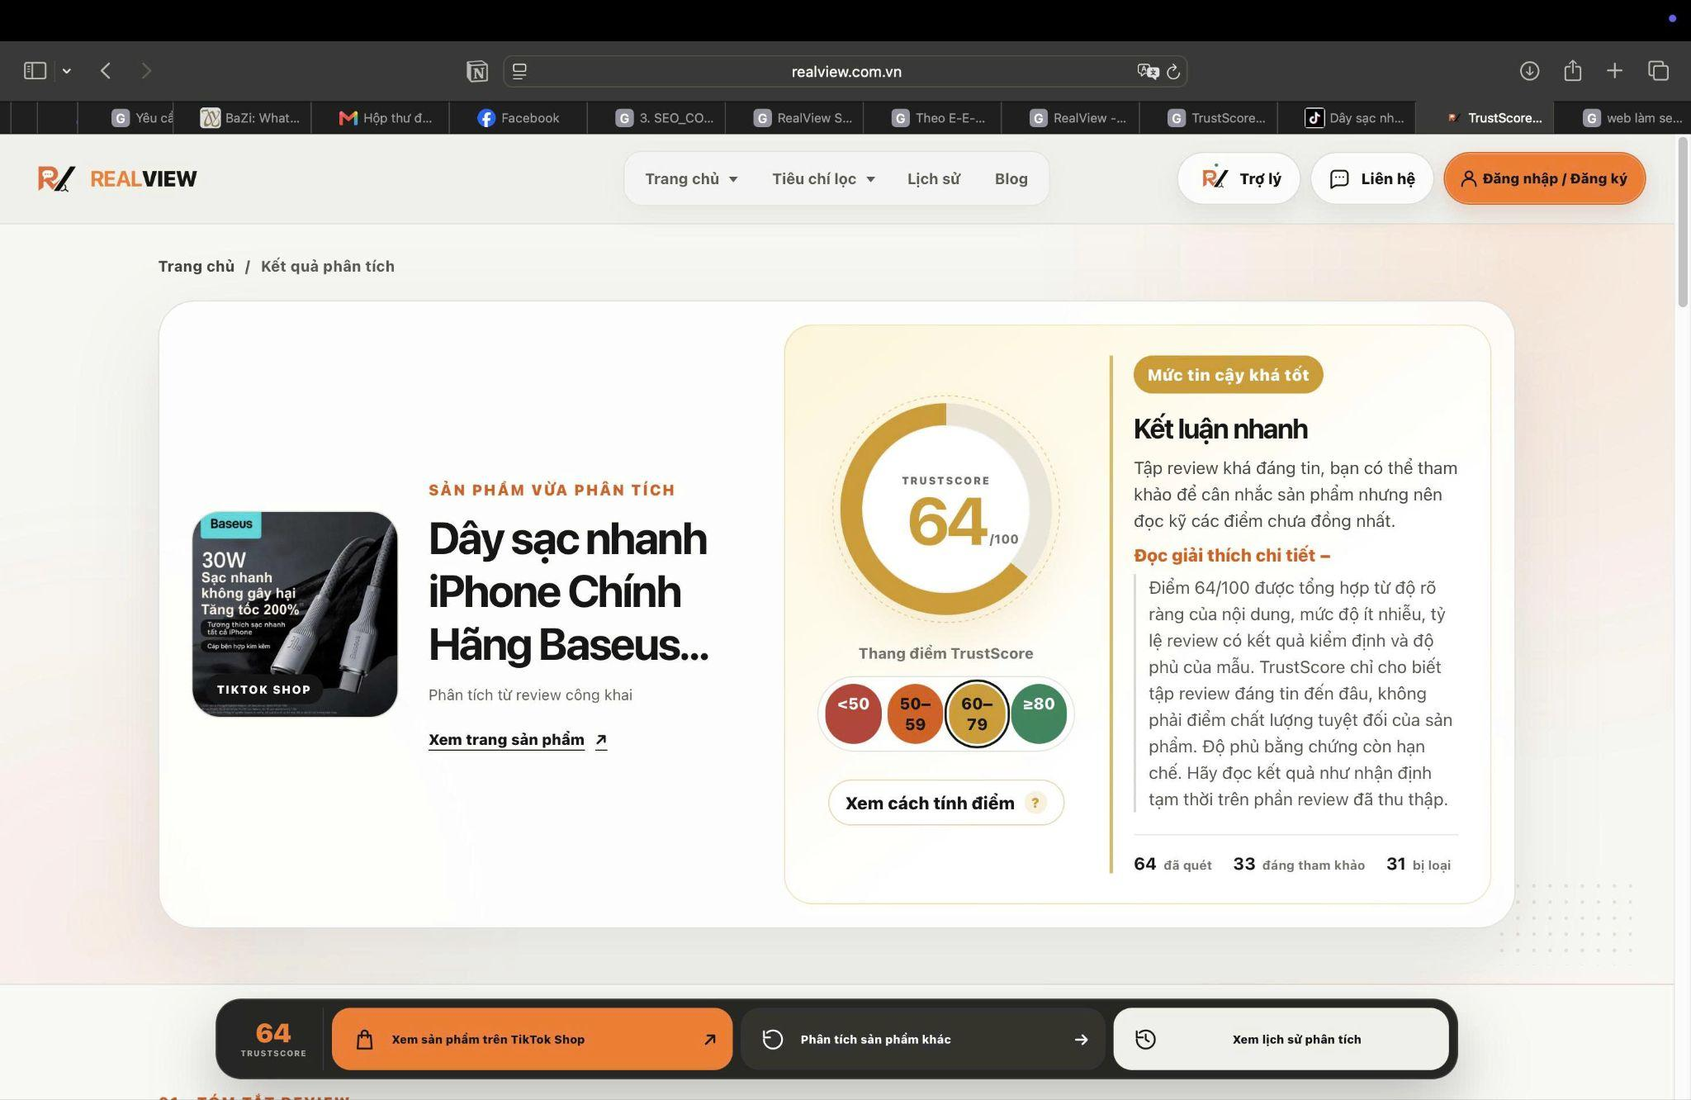
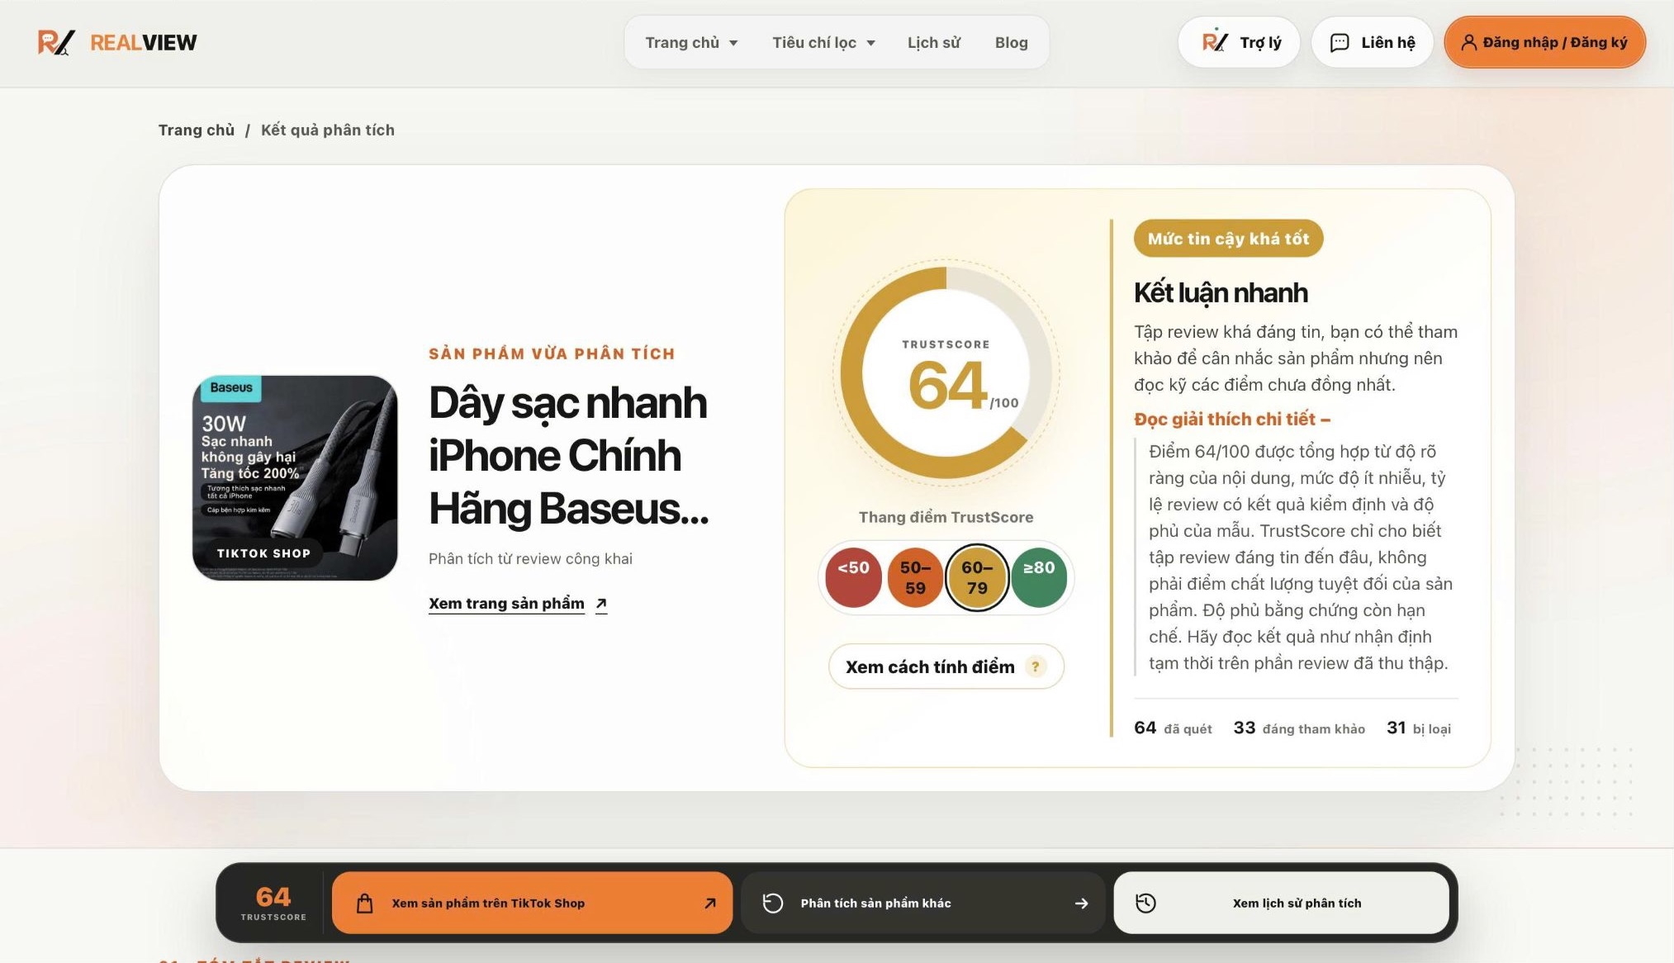
Refine Blog layout and update article imagery

diff --git a/public/blog.css b/public/blog.css
@@ -30,20 +30,21 @@
 .note-three { left: 4%; bottom: 16%; }
 
 .blog-library { padding: 58px 0 90px; }
-.library-heading { display: grid; grid-template-columns: 1fr minmax(280px, 480px); align-items: end; gap: 48px; }
+.library-heading { display: block; }
 .library-heading h2 { margin: 0; font-size: clamp(34px, 4vw, 54px); line-height: 1; letter-spacing: -.045em; }
-.library-heading > p { margin: 0; color: #5d5d58; font-size: 15px; line-height: 1.7; }
-.blog-tools { margin: 30px 0 26px; display: flex; justify-content: space-between; gap: 20px; }
+.blog-tools { margin: 30px 0 26px; display: grid; grid-template-columns: minmax(0, 1fr) 310px; align-items: center; column-gap: 72px; }
 .blog-filters { display: flex; flex-wrap: wrap; gap: 8px; }
-.blog-filters button { min-height: 42px; padding: 0 17px; border: 1px solid rgba(22,22,22,.08); border-radius: 999px; background: white; color: #51514c; font: inherit; font-size: 13px; font-weight: 750; cursor: pointer; transition: background .2s, color .2s, transform .2s; }
+.blog-filters button { min-height: 44px; padding: 0 17px; border: 1px solid rgba(22,22,22,.08); border-radius: 999px; background: white; color: #51514c; font: inherit; font-size: 13px; font-weight: 750; cursor: pointer; transition: background .2s, color .2s, transform .2s; }
 .blog-filters button:hover { transform: translateY(-1px); border-color: rgba(252,120,31,.4); color: var(--ink); }
 .blog-filters button.is-active { border-color: var(--orange); background: var(--orange); color: var(--ink); box-shadow: 0 9px 22px rgba(223,89,0,.16); }
-.blog-search { width: min(310px, 100%); min-height: 44px; padding: 0 16px; display: flex; align-items: center; gap: 10px; border: 1px solid rgba(22,22,22,.09); border-radius: 999px; background: white; }
+.blog-search { width: 100%; height: 48px; padding: 0 16px; display: flex; align-items: center; gap: 10px; box-sizing: border-box; border: 1px solid #d1d5db; border-radius: 999px; background-color: #fff; box-shadow: 0 1px 2px rgba(0,0,0,.05); }
 .blog-search:focus-within { border-color: var(--orange); box-shadow: 0 0 0 3px rgba(252,120,31,.12); }
-.blog-search svg { width: 19px; stroke: currentColor; stroke-width: 2; }
-.blog-search input { width: 100%; border: 0; outline: 0; background: transparent; color: var(--ink); font: inherit; font-size: 14px; }
-.blog-layout { display: grid; grid-template-columns: minmax(0, 1fr) 310px; align-items: start; gap: 26px; }
+.blog-search svg { flex: 0 0 auto; width: 21px; height: 21px; stroke: currentColor; stroke-width: 2; }
+.blog-search input { min-width: 0; width: 100%; border: 0; outline: 0; background: transparent; color: var(--ink); font: inherit; font-size: 15px; }
+.blog-search input::placeholder { font-size: 15px; }
+.blog-layout { display: grid; grid-template-columns: minmax(0, 1fr) 310px; align-items: start; column-gap: 72px; }
 .blog-feed { min-width: 0; }
+.blog-list-item { min-width: 0; margin-bottom: 32px; padding-bottom: 32px; border-bottom: 1px solid #e5e5e5; }
 .featured-post { min-height: 330px; display: grid; grid-template-columns: 42% 1fr; overflow: hidden; border: 1px solid rgba(22,22,22,.1); border-radius: 26px; background: white; box-shadow: 0 14px 38px rgba(22,22,22,.05); }
 .featured-post-image { min-height: 100%; display: block; overflow: hidden; background: #f7f7f3; }
 .featured-post-image img { width: 100%; height: 100%; display: block; object-fit: contain; object-position: center; }
@@ -51,12 +52,12 @@
 .featured-post-copy { padding: 34px; display: flex; flex-direction: column; align-items: flex-start; justify-content: center; }
 .post-meta { display: flex; flex-wrap: wrap; align-items: center; gap: 9px 14px; color: #787872; font-size: 12px; font-weight: 650; }
 .post-meta span:first-child { padding: 7px 10px; border-radius: 999px; background: #fff0e5; color: var(--orange-dark); font-weight: 850; letter-spacing: .03em; text-transform: uppercase; }
-.featured-post h3 { margin: 18px 0 12px; font-size: clamp(25px, 3vw, 34px); line-height: 1.13; letter-spacing: -.035em; }
+.featured-post h3 { margin: 18px 0 12px; font-size: 24px; line-height: 1.25; letter-spacing: -.03em; }
 .featured-post h3 a { text-decoration: none; }
 .featured-post h3 a:hover { color: var(--orange-dark); }
 .featured-post-copy > p { margin: 0; color: #5b5b56; font-size: 15px; line-height: 1.65; }
 .read-more { margin-top: 22px; color: var(--orange-dark); font-size: 14px; font-weight: 850; text-underline-offset: 4px; }
-.post-grid { margin-top: 20px; display: grid; grid-template-columns: repeat(2, minmax(0, 1fr)); gap: 20px; }
+.post-grid { display: grid; grid-template-columns: repeat(2, minmax(0, 1fr)); gap: 20px; }
 .post-card { overflow: hidden; border: 1px solid rgba(22,22,22,.1); border-radius: 23px; background: white; transition: transform .22s, box-shadow .22s; }
 .post-card:hover { transform: translateY(-3px); box-shadow: 0 18px 45px rgba(22,22,22,.08); }
 .post-card > img, .post-card > a, .post-card > a img, .post-card-graphic { width: 100%; height: 210px; display: block; object-fit: contain; object-position: center; }
@@ -65,7 +66,7 @@
 .post-card h3 a { color: inherit; text-decoration: none; }
 .post-card h3 a:hover { color: var(--orange-dark); }
 .post-card-body { padding: 23px 24px 25px; }
-.post-card h3 { min-height: 54px; margin: 15px 0 10px; font-size: 20px; line-height: 1.3; letter-spacing: -.025em; }
+.post-card h3 { min-height: 60px; margin: 15px 0 10px; font-size: 24px; line-height: 1.25; letter-spacing: -.025em; }
 .post-card-body > p { min-height: 72px; margin: 0; color: #5e5e59; font-size: 14px; line-height: 1.65; }
 .post-status { margin-top: 18px; display: inline-block; color: #85857f; font-size: 12px; font-weight: 700; }
 .post-card-graphic { display: flex; align-items: center; justify-content: center; background: #191918; color: white; }
@@ -88,6 +89,7 @@
 .sidebar-card nav button { min-height: 42px; padding: 0 12px 0 14px; display: flex; align-items: center; justify-content: space-between; border: 0; border-radius: 11px; background: #f4f4f1; color: #484844; font: inherit; font-size: 13px; cursor: pointer; }
 .sidebar-card nav button:hover { background: #fff0e5; color: var(--orange-dark); }
 .sidebar-card nav b { min-width: 27px; height: 27px; display: grid; place-items: center; border-radius: 50%; background: white; font-size: 11px; }
+.start-card { border: 0; border-radius: 16px; background-color: #fff; box-shadow: 0 4px 20px rgba(0,0,0,.05); }
 .start-card ol { margin: 0; padding: 0; display: grid; gap: 12px; counter-reset: starts; list-style: none; }
 .start-card li { display: grid; grid-template-columns: 28px 1fr; align-items: start; gap: 10px; color: #565651; font-size: 13px; line-height: 1.5; counter-increment: starts; }
 .start-card li::before { content: counter(starts); width: 28px; height: 28px; display: grid; place-items: center; border-radius: 50%; background: #fff0e5; color: var(--orange-dark); font-weight: 850; }
@@ -99,11 +101,14 @@
 .cta-icon { width: 46px; height: 46px; margin-bottom: 18px; display: grid; place-items: center; border-radius: 14px; background: var(--orange); color: var(--ink); font-size: 12px; font-weight: 950; }
 
 .blog-editorial { padding: 0 0 90px; }
-.blog-editorial-shell { padding: 36px; display: grid; grid-template-columns: minmax(220px, .7fr) minmax(0, 1.3fr); gap: 42px; border: 1px solid rgba(22,22,22,.1); border-radius: 28px; background: white; }
+.blog-editorial-shell { padding: 36px; display: grid; grid-template-columns: max-content repeat(3, minmax(0, 1fr)); align-items: center; gap: 40px; border: 1px solid rgba(22,22,22,.1); border-radius: 28px; background: white; }
 .blog-editorial h2 { max-width: 420px; margin: 0; font-size: clamp(28px, 3vw, 42px); line-height: 1.08; letter-spacing: -.04em; }
-.editorial-principles { display: grid; grid-template-columns: repeat(3, minmax(0, 1fr)); gap: 24px; }
+.editorial-principles { display: contents; }
+.editorial-principles article { min-width: 0; align-self: stretch; }
+.editorial-principles article:nth-child(n + 2) { padding-left: 24px; border-left: 1px solid #e5e5e5; }
+.editorial-icon { width: 28px; height: 28px; margin-bottom: 12px; display: block; color: #fc781f; stroke: currentColor; stroke-width: 1.8; stroke-linecap: round; stroke-linejoin: round; }
 .editorial-principles h3 { margin: 0 0 10px; font-size: 17px; }
-.editorial-principles p { margin: 0; color: #5d5d58; font-size: 14px; line-height: 1.65; }
+.editorial-principles p { margin: 0; color: #4b5563; font-size: 14px; line-height: 1.6; }
 
 .article-main { padding: 30px 0 86px; }
 .article-shell { max-width: 850px; }
@@ -170,8 +175,10 @@
   .blog-hero-copy { padding: 44px 22px 44px 38px; }
   .blog-hero-visual img { right: -4%; width: 92%; }
   .visual-note { font-size: 11px; }
+  .blog-tools { grid-template-columns: 1fr; row-gap: 18px; }
+  .blog-search { width: min(310px, 100%); }
   .blog-layout { grid-template-columns: 1fr; }
-  .blog-sidebar { position: static; grid-template-columns: repeat(3, minmax(0,1fr)); }
+  .blog-sidebar { position: static; grid-template-columns: repeat(2, minmax(0,1fr)); }
 }
 
 @media (max-width: 760px) {
@@ -186,8 +193,7 @@
   .note-two { right: 5%; top: 27%; }
   .note-three { left: 7%; bottom: 17%; }
   .blog-library { padding: 44px 0 70px; }
-  .library-heading { grid-template-columns: 1fr; gap: 16px; }
-  .blog-tools { flex-direction: column; }
+  .blog-tools { row-gap: 16px; }
   .blog-filters { flex-wrap: nowrap; margin-inline: calc((100vw - 100%) / -2); padding-inline: max(20px, calc((100vw - 100%) / 2)); overflow-x: auto; scrollbar-width: none; }
   .blog-filters::-webkit-scrollbar { display: none; }
   .blog-filters button { flex: 0 0 auto; }
@@ -200,7 +206,8 @@
   .blog-sidebar { grid-template-columns: 1fr; }
   .blog-editorial { padding-bottom: 70px; }
   .blog-editorial-shell { grid-template-columns: 1fr; gap: 28px; padding: 28px 24px; }
-  .editorial-principles { grid-template-columns: 1fr; gap: 20px; }
+  .editorial-principles { display: grid; grid-template-columns: 1fr; gap: 20px; }
+  .editorial-principles article:nth-child(n + 2) { padding-left: 0; border-left: 0; }
   .article-main { padding-top: 20px; }
   .article-header h1 { font-size: 42px; }
   .article-deck { font-size: 17px; }

diff --git a/public/blog.html b/public/blog.html
@@ -92,7 +92,6 @@
         <div class="container">
           <div class="library-heading">
             <div><p class="blog-eyebrow">Kiến thức dành cho người mua</p><h2 id="library-title">Bài viết mới từ RealView</h2></div>
-            <p>Nội dung tập trung vào cách kiểm chứng thông tin và đọc đánh giá hiệu quả, không thay thế trải nghiệm trực tiếp với sản phẩm.</p>
           </div>
 
           <div class="blog-tools" aria-label="Tìm và lọc bài viết">
@@ -110,34 +109,30 @@
 
           <div class="blog-layout">
             <div class="blog-feed">
-              <article class="featured-post" data-blog-card data-category="doc-review" data-search="review 5 sao có đáng tin cách kiểm tra độ tin cậy shopee tiktok shop">
-                <a class="featured-post-image" href="/bai-viet/kiem-tra-do-tin-cay-review-truoc-khi-mua-hang" aria-label="Đọc bài Review 5 sao có đáng tin không"><img src="/assets/blog/review-5-sao-it-thong-tin.jpg" alt="Ví dụ review 5 sao cung cấp ít thông tin về sản phẩm" width="1080" height="745" loading="lazy" decoding="async" /></a>
-                <div class="featured-post-copy">
-                  <div class="post-meta"><span>Đọc review</span><time datetime="2026-09-11">11 tháng 9, 2026</time><span>18 phút đọc</span></div>
-                  <h3><a href="/bai-viet/kiem-tra-do-tin-cay-review-truoc-khi-mua-hang">Review 5 sao có đáng tin không?</a></h3>
-                  <p>Cách kiểm tra độ tin cậy của review, nhận biết những dấu hiệu cần chú ý và sử dụng TrustScore đúng trước khi mua hàng online.</p>
-                  <a class="read-more" href="/bai-viet/kiem-tra-do-tin-cay-review-truoc-khi-mua-hang" aria-label="Đọc bài Review 5 sao có đáng tin không">Đọc bài viết <span aria-hidden="true">→</span></a>
-                </div>
-              </article>
+              <div class="blog-list-item" data-blog-card data-category="doc-review" data-search="review 5 sao có đáng tin cách kiểm tra độ tin cậy shopee tiktok shop">
+                <article class="featured-post">
+                  <a class="featured-post-image" href="/bai-viet/kiem-tra-do-tin-cay-review-truoc-khi-mua-hang" aria-label="Đọc bài Review 5 sao có đáng tin không"><img src="/assets/blog/review-5-sao-it-thong-tin.jpg" alt="Ví dụ review 5 sao cung cấp ít thông tin về sản phẩm" width="1080" height="745" loading="lazy" decoding="async" /></a>
+                  <div class="featured-post-copy">
+                    <div class="post-meta"><span>Đọc review</span><time datetime="2026-09-11">11 tháng 9, 2026</time><span>18 phút đọc</span></div>
+                    <h3><a href="/bai-viet/kiem-tra-do-tin-cay-review-truoc-khi-mua-hang">Review 5 sao có đáng tin không?</a></h3>
+                    <p>Cách kiểm tra độ tin cậy của review, nhận biết những dấu hiệu cần chú ý và sử dụng TrustScore đúng trước khi mua hàng online.</p>
+                    <a class="read-more" href="/bai-viet/kiem-tra-do-tin-cay-review-truoc-khi-mua-hang" aria-label="Đọc bài Review 5 sao có đáng tin không">Đọc bài viết <span aria-hidden="true">→</span></a>
+                  </div>
+                </article>
+              </div>
 
               <div class="post-grid" aria-live="polite">
-                <article class="post-card" data-blog-card data-category="realview huong-dan" data-search="trustscore realview điểm tin cậy cách tính">
-                  <a href="/bai-viet/trustscore-la-gi" aria-label="Đọc bài TrustScore là gì"><img src="/assets/blog/trustscore-giao-dien-realview.jpg" alt="Giao diện RealView với công cụ phân tích độ tin cậy của review" width="2560" height="1472" loading="lazy" decoding="async" /></a>
-                  <div class="post-card-body"><div class="post-meta"><span>RealView</span><time datetime="2026-09-11">11 tháng 9, 2026</time><span>17 phút đọc</span></div><h3><a href="/bai-viet/trustscore-la-gi">TrustScore là gì? Cách đọc điểm tin cậy</a></h3><p>Hiểu cách RealView đo độ tin cậy của tập review và vì sao đây không phải điểm chất lượng sản phẩm.</p><a class="read-more" href="/bai-viet/trustscore-la-gi">Đọc bài viết <span aria-hidden="true">→</span></a></div>
-                </article>
+                <div class="blog-list-item" data-blog-card data-category="realview huong-dan" data-search="trustscore realview điểm tin cậy cách tính">
+                  <article class="post-card">
+                    <a href="/bai-viet/trustscore-la-gi" aria-label="Đọc bài TrustScore là gì"><img src="/assets/blog/trustscore-giao-dien-realview.jpg" alt="Giao diện RealView với công cụ phân tích độ tin cậy của review" width="2560" height="1472" loading="lazy" decoding="async" /></a>
+                    <div class="post-card-body"><div class="post-meta"><span>RealView</span><time datetime="2026-09-11">11 tháng 9, 2026</time><span>17 phút đọc</span></div><h3><a href="/bai-viet/trustscore-la-gi">TrustScore là gì? Cách đọc điểm tin cậy</a></h3><p>Hiểu cách RealView đo độ tin cậy của tập review và vì sao đây không phải điểm chất lượng sản phẩm.</p><a class="read-more" href="/bai-viet/trustscore-la-gi">Đọc bài viết <span aria-hidden="true">→</span></a></div>
+                  </article>
+                </div>
               </div>
               <p class="blog-empty" data-blog-empty hidden>Chưa có bài viết phù hợp. Hãy thử từ khóa hoặc chủ đề khác.</p>
             </div>
 
             <aside class="blog-sidebar" aria-label="Khám phá Blog RealView">
-              <section class="sidebar-card">
-                <p class="sidebar-kicker">Chủ đề nổi bật</p>
-                <h2>Tìm đúng nội dung bạn cần</h2>
-                <nav aria-label="Các chủ đề Blog">
-                  <button type="button" data-sidebar-filter="doc-review"><span>Đọc review</span><b>1</b></button>
-                  <button type="button" data-sidebar-filter="realview"><span>Hiểu RealView</span><b>1</b></button>
-                </nav>
-              </section>
               <section class="sidebar-card start-card">
                 <p class="sidebar-kicker">Bắt đầu từ đây</p>
                 <h2>Ba câu hỏi trước khi tin một review</h2>
@@ -158,12 +153,21 @@
         <div class="container blog-editorial-shell">
           <div>
             <p class="blog-eyebrow">Minh bạch nội dung</p>
-            <h2 id="editorial-title">Blog RealView được biên tập như thế nào?</h2>
+            <h2 id="editorial-title">Blog RealView<br>được biên tập<br>như thế nào?</h2>
           </div>
           <div class="editorial-principles">
-            <article><h3>Ai thực hiện</h3><p>Nội dung được Nhóm RealView biên tập và rà soát để phù hợp với mục tiêu giúp người mua đọc dữ liệu đánh giá có chọn lọc.</p></article>
-            <article><h3>Cách thực hiện</h3><p>Mỗi bài viết được xây dựng từ quy trình phân loại review công khai, tình huống mua sắm thực tế và các giới hạn được nêu rõ.</p></article>
-            <article><h3>Mục đích</h3><p>Thông tin được cung cấp để hỗ trợ đối chiếu trước khi mua, không thay thế việc kiểm tra mô tả, chính sách và sản phẩm thực tế.</p></article>
+            <article>
+              <svg class="editorial-icon" viewBox="0 0 24 24" fill="none" aria-hidden="true"><circle cx="12" cy="8" r="4" /><path d="M4.5 21a7.5 7.5 0 0 1 15 0" /></svg>
+              <h3>Ai thực hiện</h3><p>Nội dung được Nhóm RealView biên tập và rà soát để phù hợp với mục tiêu giúp người mua đọc dữ liệu đánh giá có chọn lọc.</p>
+            </article>
+            <article>
+              <svg class="editorial-icon" viewBox="0 0 24 24" fill="none" aria-hidden="true"><path d="M4 7h10M18 7h2M4 17h2M10 17h10" /><circle cx="16" cy="7" r="2" /><circle cx="8" cy="17" r="2" /></svg>
+              <h3>Cách thực hiện</h3><p>Mỗi bài viết được xây dựng từ quy trình phân loại review công khai, tình huống mua sắm thực tế và các giới hạn được nêu rõ.</p>
+            </article>
+            <article>
+              <svg class="editorial-icon" viewBox="0 0 24 24" fill="none" aria-hidden="true"><circle cx="12" cy="12" r="8" /><circle cx="12" cy="12" r="4" /><circle cx="12" cy="12" r="1" /></svg>
+              <h3>Mục đích</h3><p>Thông tin được cung cấp để hỗ trợ đối chiếu trước khi mua, không thay thế việc kiểm tra mô tả, chính sách và sản phẩm thực tế.</p>
+            </article>
           </div>
         </div>
       </section>

diff --git a/public/blog/kiem-tra-do-tin-cay-review-truoc-khi-mua-hang.html b/public/blog/kiem-tra-do-tin-cay-review-truoc-khi-mua-hang.html
@@ -158,7 +158,7 @@
           <p>Bước 5: Xem kết quả tổng hợp và sử dụng cùng với nội dung review, thông tin sản phẩm và nhu cầu cá nhân để đưa ra quyết định mua hàng.</p>
           <h2 id="trustscore-chi-so-tong-hop-ve-do-tin-cay-cua-tap-review">TrustScore – chỉ số tổng hợp về độ tin cậy của tập review</h2>
           <p>Sau quá trình thu thập và phân tích dữ liệu, RealView tổng hợp kết quả thành TrustScore, một chỉ số trên thang điểm từ 0 đến 100, nhằm phản ánh mức độ tin cậy của tập review được phân tích.</p>
-          <figure class="article-figure"><img src="/assets/blog/ket-qua-trustscore-realview.jpg" alt="Kết quả TrustScore trên RealView" width="1080" height="588" loading="lazy" decoding="async" /></figure>
+          <figure class="article-figure"><img src="/assets/blog/ket-qua-trustscore-realview.jpg" alt="Kết quả TrustScore trên RealView" width="2027" height="1166" loading="lazy" decoding="async" /></figure>
           <p class="article-caption">Hình 7. Hiển thị kết quả TrustScore sau phân tích của RealView</p>
           <p>Khác với điểm đánh giá sản phẩm (star rating) vốn phản ánh mức độ hài lòng do người mua tự chấm, TrustScore tập trung vào chất lượng và độ tin cậy của tập review được phân tích. Vì vậy, TrustScore cao không đồng nghĩa với việc sản phẩm có chất lượng cao; nó chỉ cho thấy tập review có mức độ đáng tin cậy cao hơn khi được sử dụng làm nguồn tham khảo.</p>
           <h3 id="trustscore-duoc-tinh-dua-tren-nhung-yeu-to-nao">TrustScore được tính dựa trên những yếu tố nào?</h3>
@@ -166,7 +166,7 @@
           <p>Chất lượng nội dung (Content Quality): mức độ review cung cấp thông tin cụ thể, hữu ích và có giá trị tham khảo.</p>
           <p>Độ sạch dữ liệu (Data Cleanliness): phản ánh mức độ hạn chế của các nội dung trùng lặp, tương đồng hoặc các mẫu dữ liệu làm giảm tính độc lập của tập review.</p>
           <p>Độ bao phủ dữ liệu (Coverage): phản ánh mức độ dữ liệu đủ điều kiện được đưa vào quá trình phân tích và được sử dụng để điều chỉnh kết quả TrustScore.</p>
-          <figure class="article-figure"><img src="/assets/blog/thanh-phan-trustscore-realview.jpg" alt="Các yếu tố của TrustScore" width="1080" height="588" loading="lazy" decoding="async" /></figure>
+          <figure class="article-figure"><img src="/assets/blog/thanh-phan-trustscore-realview.jpg" alt="Các yếu tố của TrustScore" width="2027" height="1163" loading="lazy" decoding="async" /></figure>
           <p class="article-caption">Hình 8. Các yếu tố của TrustScore được hiển thị trực tiếp trên trang kết quả của RealView</p>
           <p>Các yếu tố này được kết hợp để tạo ra TrustScore trên thang điểm 0–100. Coverage giúp điều chỉnh kết quả trong trường hợp lượng dữ liệu đủ điều kiện để phân tích còn hạn chế.</p>
           <p>Theo cách diễn giải của RealView, TrustScore trên thang điểm 0–100 được chia thành bốn mức:</p>
